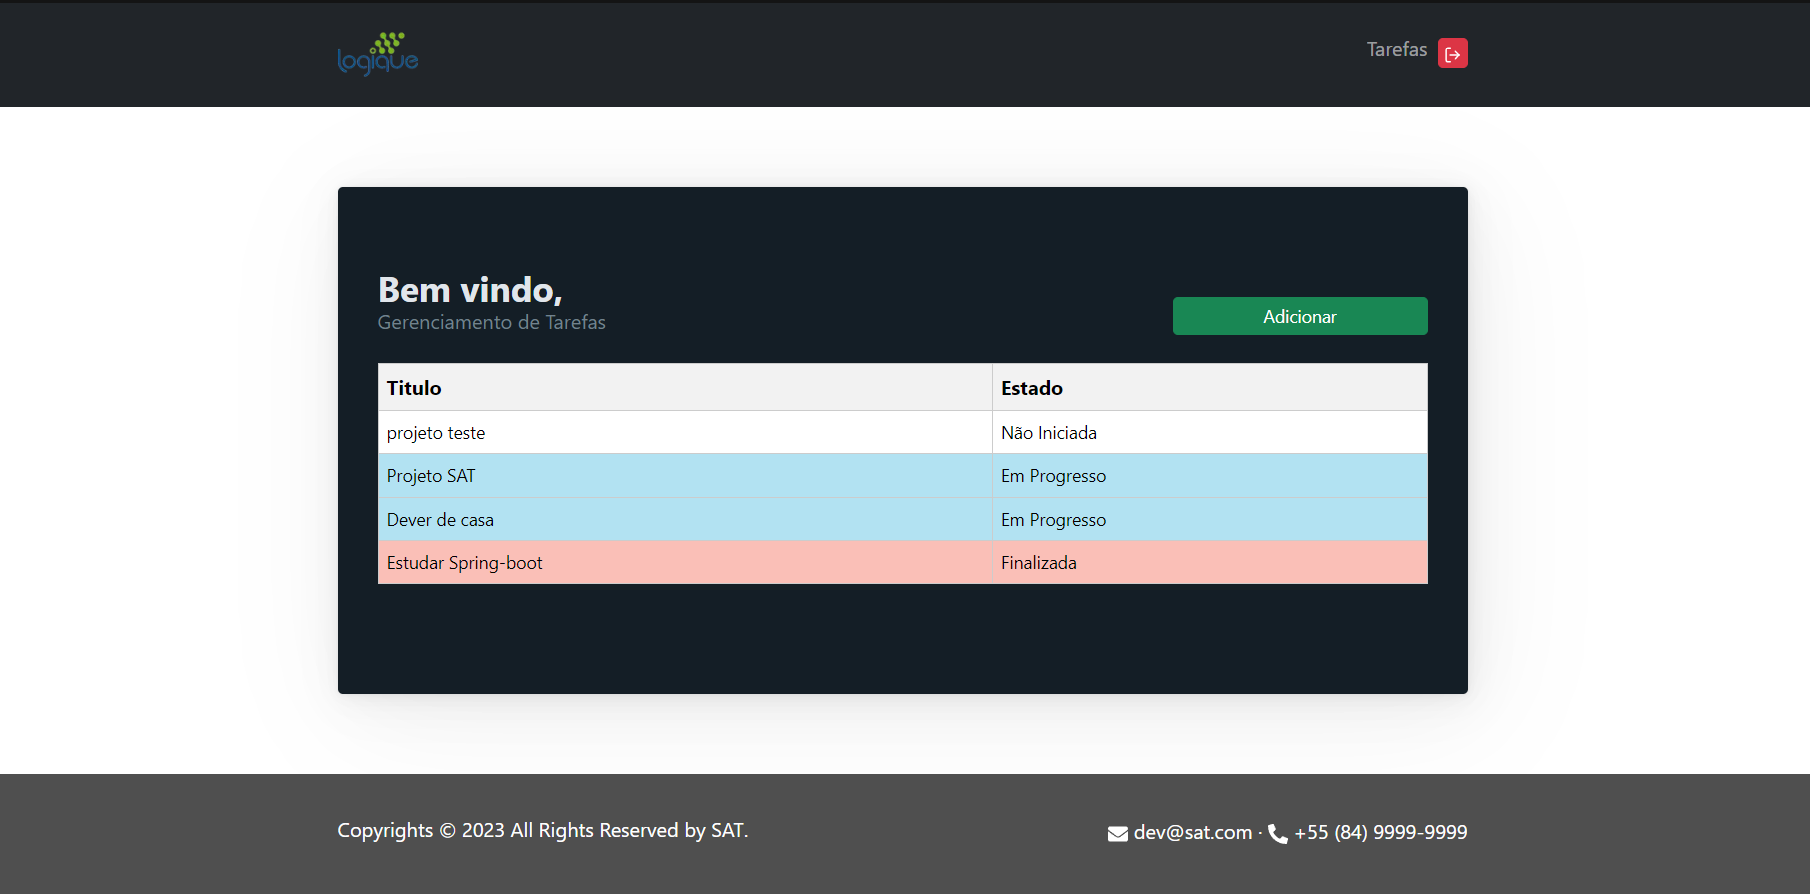
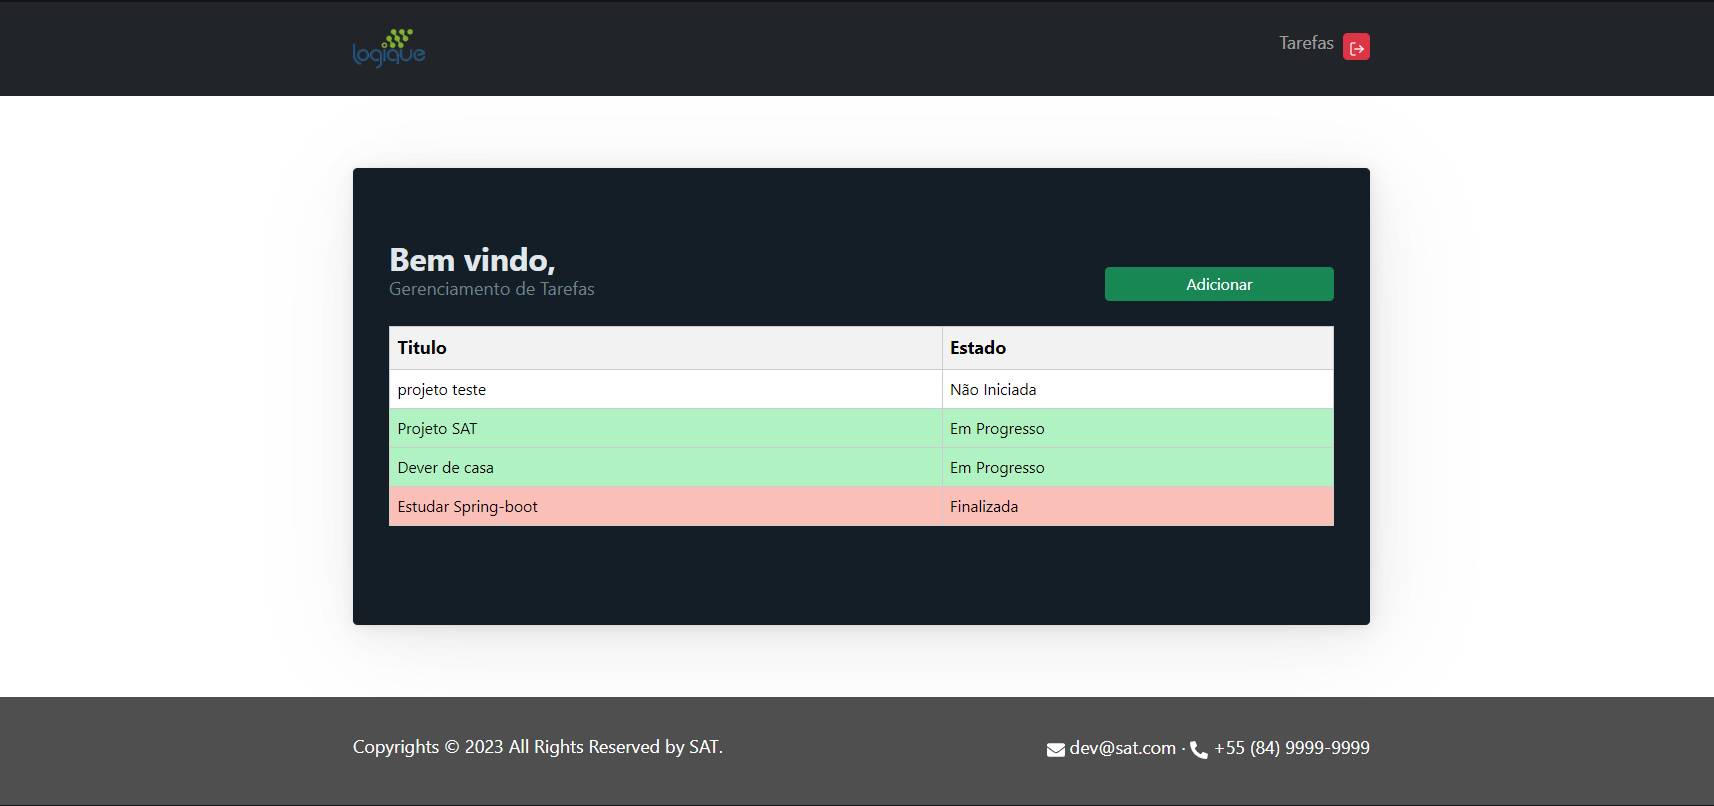
changes on color

diff --git a/frontend/src/components/TableTarefas/index.tsx b/frontend/src/components/TableTarefas/index.tsx
@@ -80,7 +80,7 @@ const TableTarefas: React.FC<TableProps> = ({
                 estado == "Não Iniciada"
                   ? "white"
                   : estado == "Em Progresso"
-                  ? "#b2e2f2"
+                  ? "#b0f2c2"
                   : "#fabfb7";
 
               {
